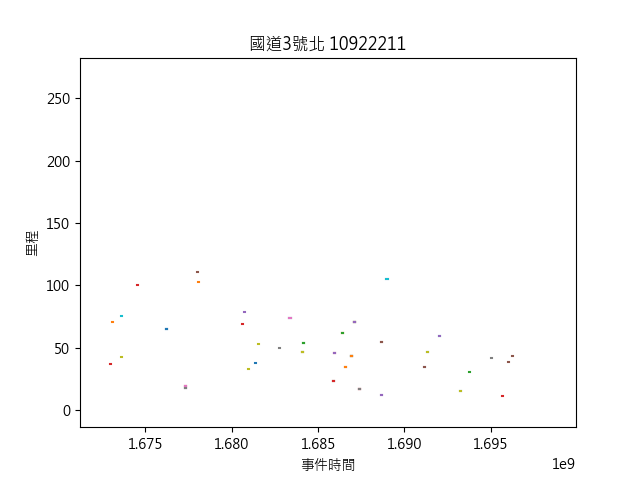
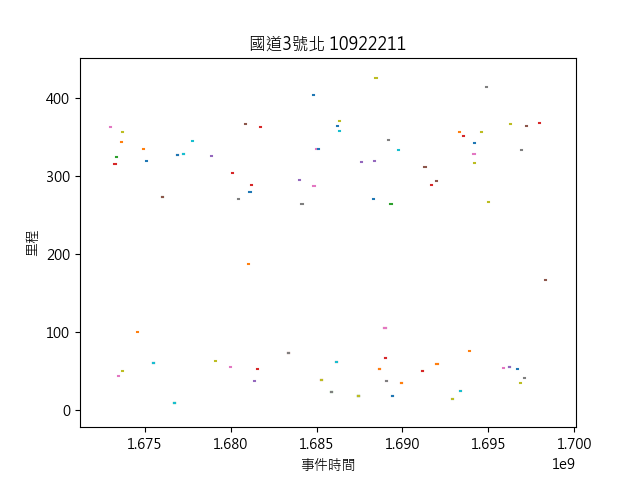
0312final

diff --git a/20240312/國道.py b/20240312/國道.py
@@ -17,9 +17,12 @@ filepath = os.path.join(path ,excel_file)
 # 讀取 Excel 文件
 df = pd.read_excel(filepath, sheet_name='交通事故簡報通報資料')
 
-#篩選 欄位名稱 為'國道名稱' 的資料， 我只要名稱為'國道1號'的資料，且欄位名稱為'方向'的資料，我只要名稱為'南'的資料
-df = df[df['方向'] == '南']
-df1 = df[df['國道名稱'] == '國道3號']
+#篩選 欄位名稱 為'國道名稱' 的資料， 我只要名稱為'國道1號'的資料
+#篩選 欄位名稱為'方向'的資料，我要名稱為'南'的資料跟'南下'的資料
+
+# 篩選出 '國道名稱' 為 '國道1號' 且 '方向' 為 '南' 或 '南下' 的資料
+df1 = df[(df['國道名稱'] == '國道3號') & (df['方向'] == '北') | (df['方向'] == '北向')]
+
 
 
 #把 欄位 '年' '月' '日' '時' '分'
@@ -56,6 +59,6 @@ for index, row in df1.iterrows():
 
 plt.xlabel('事件時間')
 plt.ylabel('里程')
-plt.title('國道3號南 10922211')
+plt.title('國道3號北 10922211')
 plt.rcParams['font.sans-serif'] = ['Microsoft JhengHei']
 plt.show()
